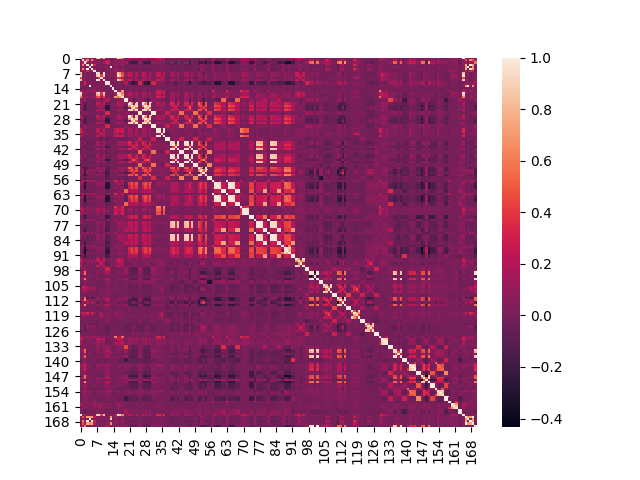
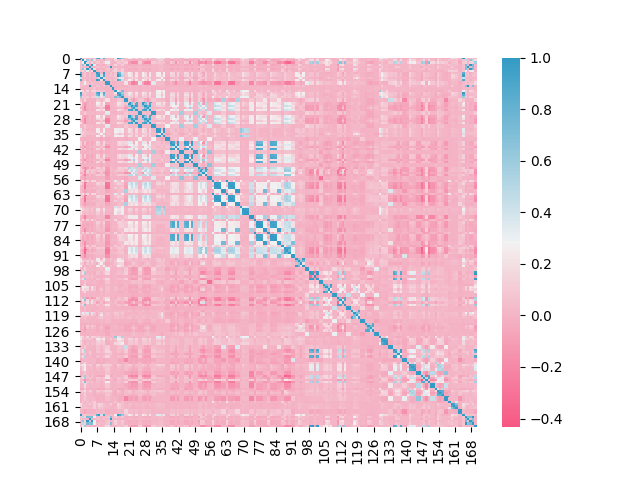
add plot

diff --git a/stat/time_series_modified.py b/stat/time_series_modified.py
@@ -6,12 +6,12 @@ import seaborn as sns
 import matplotlib.pyplot as plt
 features = pd.read_csv('../../elliptic_bitcoin_dataset/full_data.csv',header=None, dtype='float64')
 classes = pd.read_csv('../../elliptic_bitcoin_dataset/elliptic_txs_classes.csv')
-feature = [str(i) for i in range(170)]
+feature = [str(i) for i in range(171)]
 features.columns = ["txId","time_step"] + feature
 features = pd.merge(features,classes,left_on="txId",right_on="txId",how='left')
 
 
-for i in range(170):
+for i in range(171):
     fig, axes = plt.subplots(2, 4)
     fig.suptitle(f'Feature {i}')
     features1 = features[features['class'] == '1']

diff --git a/stat/hy_testing_modified.py b/stat/hy_testing_modified.py
@@ -36,6 +36,15 @@ fi.close()
 fi = open('./corr_modified.txt', 'w')
 fi.write(f"{X.corr().to_string()}")
 fi.close()
-sns.heatmap(X.corr())
+cmap = sns.diverging_palette(0, 230, 90, 60, as_cmap=True)
+sns.heatmap(X.corr(), cmap=cmap, cbar={'shrink':0.4, 'ticks':[-1, -0.5, 0, 0.5, 1]})
 plt.savefig('../image/corr_modified.png')
+plt.close()
+
+cor = []
+for i in range(171):
+    x = X[f'{i}'].corr(Y)
+    cor.append(x)
+plt.plot(cor)
+plt.savefig("../image/corr_y_modified.png")
 

diff --git a/stat/hy_testing_raw.py b/stat/hy_testing_raw.py
@@ -28,5 +28,14 @@ fi.close()
 fi = open('./corr_raw.txt', 'w')
 fi.write(f"{X.corr().to_string()}")
 fi.close()
-sns.heatmap(X.corr())
+cmap = sns.diverging_palette(0, 230, 90, 60, as_cmap=True)
+sns.heatmap(X.corr(), cmap=cmap, cbar={'shrink':0.4, 'ticks':[-1, -0.5, 0, 0.5, 1]})
 plt.savefig('../image/corr_raw.png')
+plt.close()
+
+cor = []
+for i in range(165):
+    x = X[f'{i}'].corr(Y)
+    cor.append(x)
+plt.plot(cor)
+plt.savefig("../image/corr_y_raw.png")
